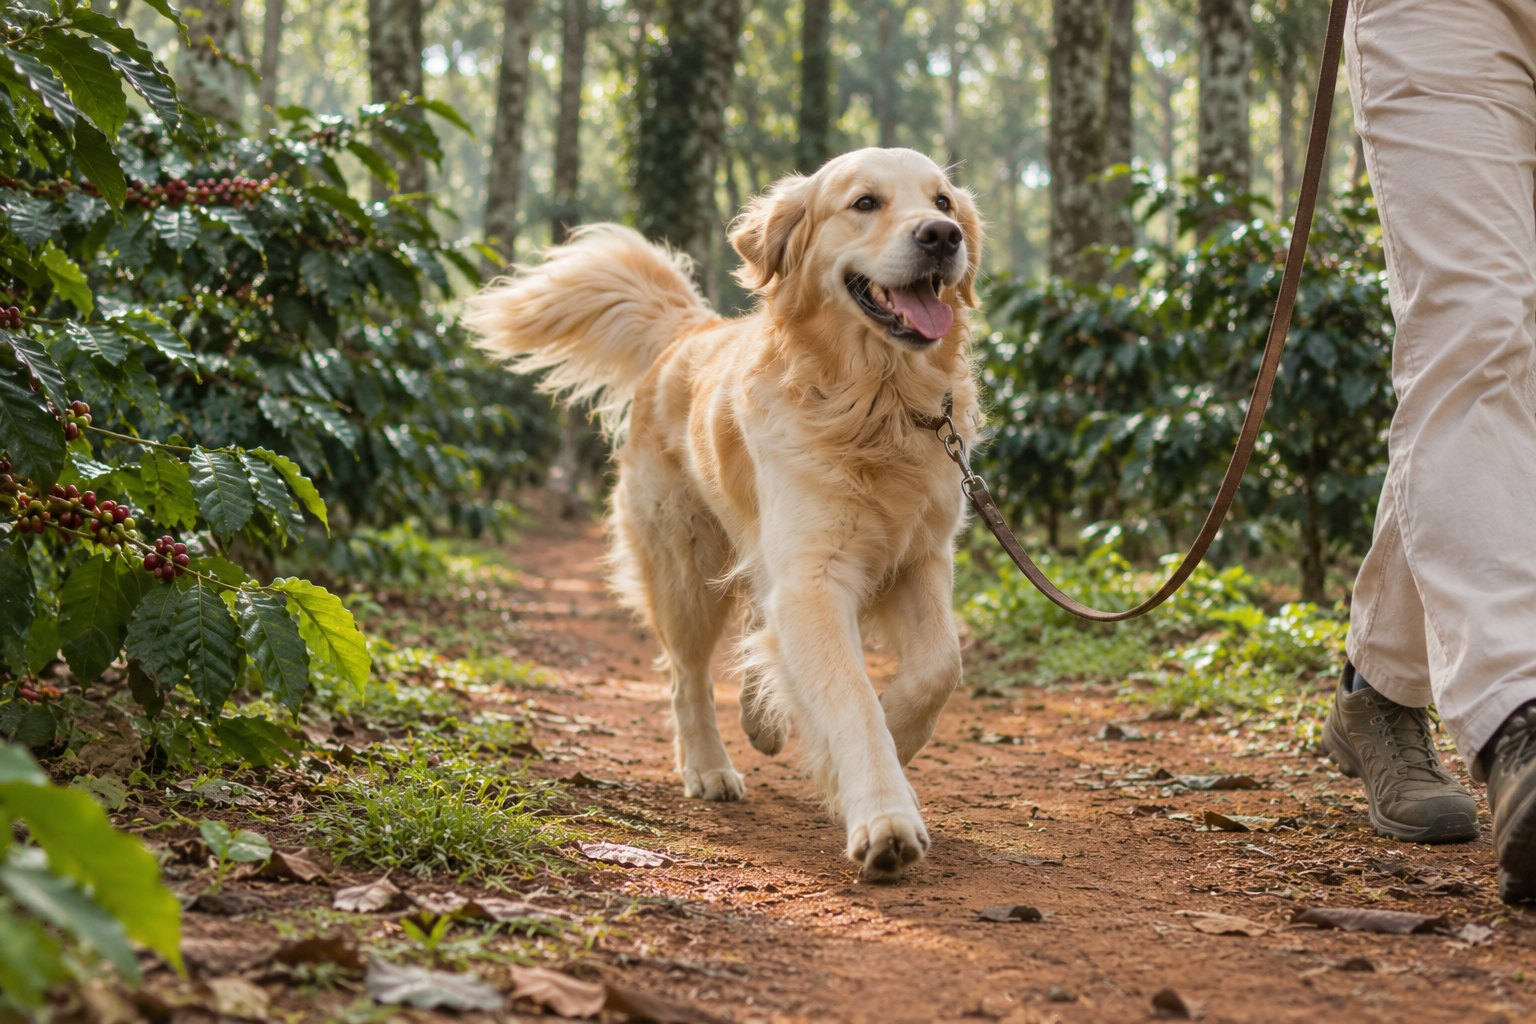
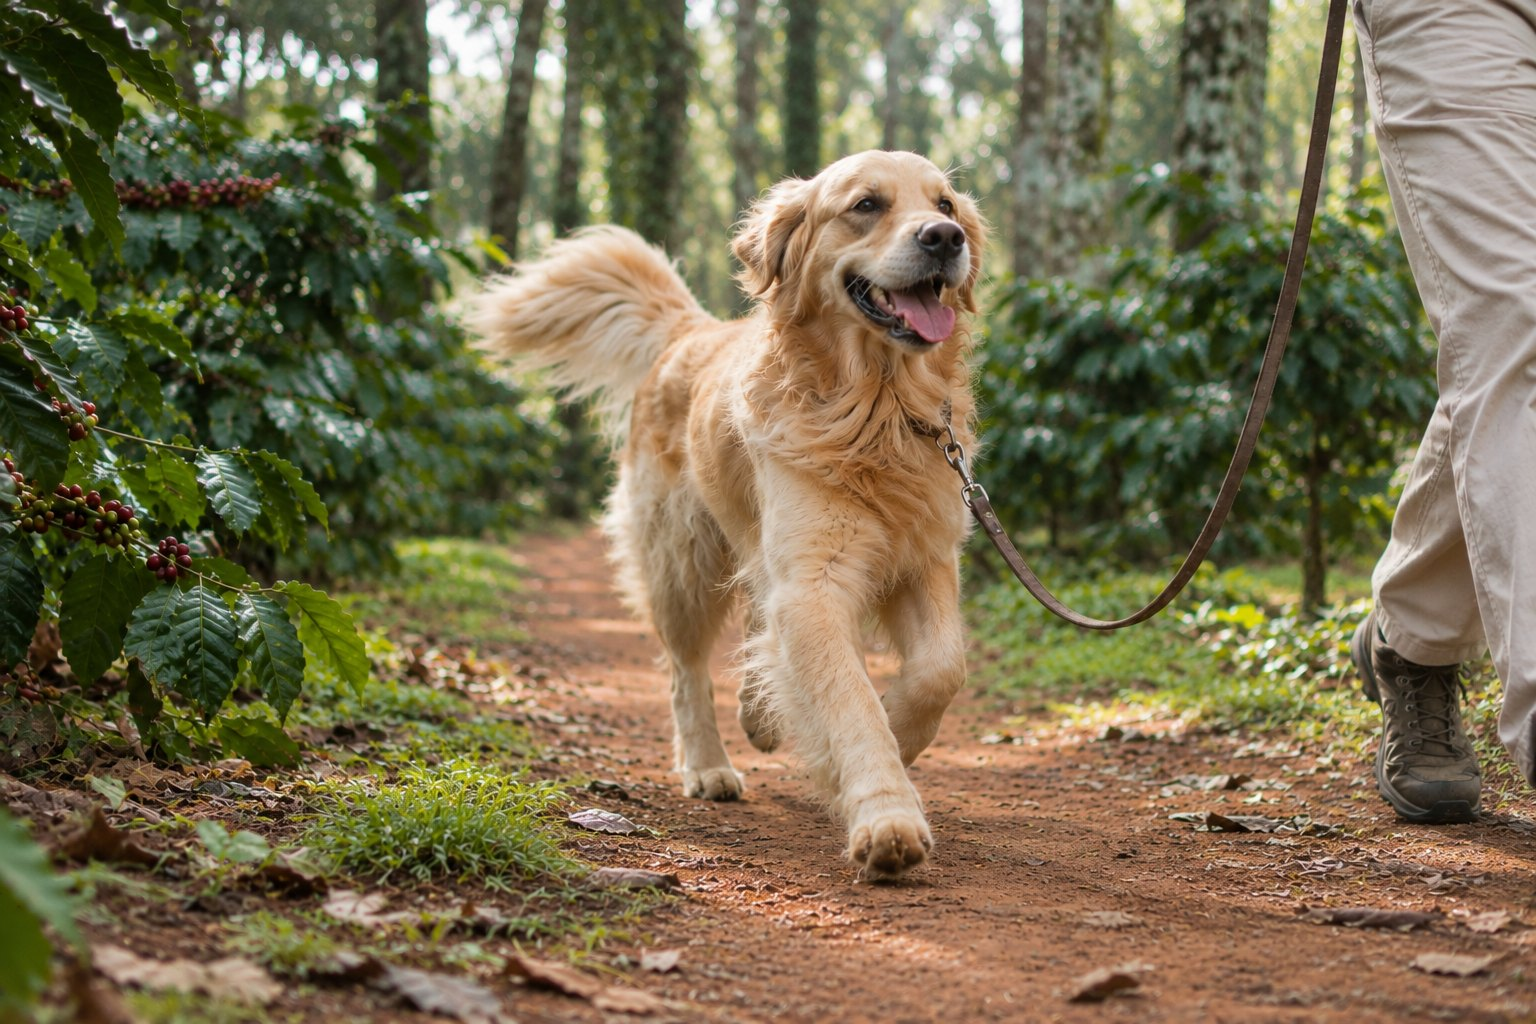
More realistic coffee-path photo
Claude-Session: https://claude.ai/code/session_01DS7QGQnV4NaMxTB9MTeMqN

diff --git a/index.html b/index.html
@@ -107,7 +107,7 @@
     <!-- Full-screen photo story: the picture fills the screen and holds while the four moments play (story.js). -->
     <div class="story story-full" style="--n: 4">
       <div class="stage">
-        <img class="i-walk is-on" src="v2-story/img/moment-1-walk.jpg?v=2" width="1536" height="1024" alt="A golden retriever trotting happily down a red-earth path through a shaded coffee estate, on a loose leash">
+        <img class="i-walk is-on" src="v2-story/img/moment-1-walk.jpg?v=3" width="1536" height="1024" alt="A golden retriever trotting happily down a red-earth path through a shaded coffee estate, on a loose leash">
         <img class="i-swim" src="v2-story/img/moment-2-swim.jpg?v=2" width="1536" height="1024" alt="A golden retriever swimming in a clear forest stream, mouth open in a happy pant">
         <img class="i-slow" src="v2-story/img/moment-3-verandah.jpg?v=2" width="1536" height="1024" alt="A golden retriever asleep on the cool red floor of an old plantation verandah, beside bare feet and a tumbler of filter coffee">
         <img class="i-view" src="v2-story/img/moment-4-ridge.jpg?v=2" width="1536" height="1024" alt="A man, a little girl and a golden retriever sitting on a ridge, seen from behind, watching the sun rise over misty hills">
@@ -272,7 +272,7 @@
       <li><figure class="quote">
         <p class="sample-tag">Sample quote</p>
         <blockquote><p>We didn't make one phone call. The stay, the meals and the car were all arranged, and our dog was welcome at every stop.</p></blockquote>
-        <figcaption><img src="v2-story/img/said-1.jpg?v=2" width="240" height="240" loading="lazy" alt="Placeholder picture: a golden retriever on a path between coffee plants"><span class="quote-who"><b class="todo">Name</b><span class="todo">Dog's name, city</span></span></figcaption>
+        <figcaption><img src="v2-story/img/said-1.jpg?v=3" width="240" height="240" loading="lazy" alt="Placeholder picture: a golden retriever on a path between coffee plants"><span class="quote-who"><b class="todo">Name</b><span class="todo">Dog's name, city</span></span></figcaption>
       </figure></li>
       <li><figure class="quote">
         <p class="sample-tag">Sample quote</p>

diff --git a/v2-story/index.html b/v2-story/index.html
@@ -108,7 +108,7 @@
     <!-- Full-screen photo story: the picture fills the screen and holds while the four moments play (story.js). -->
     <div class="story story-full" style="--n: 4">
       <div class="stage">
-        <img class="i-walk is-on" src="img/moment-1-walk.jpg?v=2" width="1536" height="1024" alt="A golden retriever trotting happily down a red-earth path through a shaded coffee estate, on a loose leash">
+        <img class="i-walk is-on" src="img/moment-1-walk.jpg?v=3" width="1536" height="1024" alt="A golden retriever trotting happily down a red-earth path through a shaded coffee estate, on a loose leash">
         <img class="i-swim" src="img/moment-2-swim.jpg?v=2" width="1536" height="1024" alt="A golden retriever swimming in a clear forest stream, mouth open in a happy pant">
         <img class="i-slow" src="img/moment-3-verandah.jpg?v=2" width="1536" height="1024" alt="A golden retriever asleep on the cool red floor of an old plantation verandah, beside bare feet and a tumbler of filter coffee">
         <img class="i-view" src="img/moment-4-ridge.jpg?v=2" width="1536" height="1024" alt="A man, a little girl and a golden retriever sitting on a ridge, seen from behind, watching the sun rise over misty hills">
@@ -273,7 +273,7 @@
       <li><figure class="quote">
         <p class="sample-tag">Sample quote</p>
         <blockquote><p>We didn't make one phone call. The stay, the meals and the car were all arranged, and our dog was welcome at every stop.</p></blockquote>
-        <figcaption><img src="img/said-1.jpg?v=2" width="240" height="240" loading="lazy" alt="Placeholder picture: a golden retriever on a path between coffee plants"><span class="quote-who"><b class="todo">Name</b><span class="todo">Dog's name, city</span></span></figcaption>
+        <figcaption><img src="img/said-1.jpg?v=3" width="240" height="240" loading="lazy" alt="Placeholder picture: a golden retriever on a path between coffee plants"><span class="quote-who"><b class="todo">Name</b><span class="todo">Dog's name, city</span></span></figcaption>
       </figure></li>
       <li><figure class="quote">
         <p class="sample-tag">Sample quote</p>

diff --git a/v2-story/coorg.html b/v2-story/coorg.html
@@ -97,7 +97,7 @@
 
     <ol class="day-list">
       <li class="day">
-        <img src="img/moment-1-walk.jpg?v=2" width="1536" height="1024" loading="lazy"
+        <img src="img/moment-1-walk.jpg?v=3" width="1536" height="1024" loading="lazy"
              alt="A golden retriever trotting down a red-earth path through a shaded coffee estate">
         <div class="day-text">
           <p class="day-num">Day 1</p>
